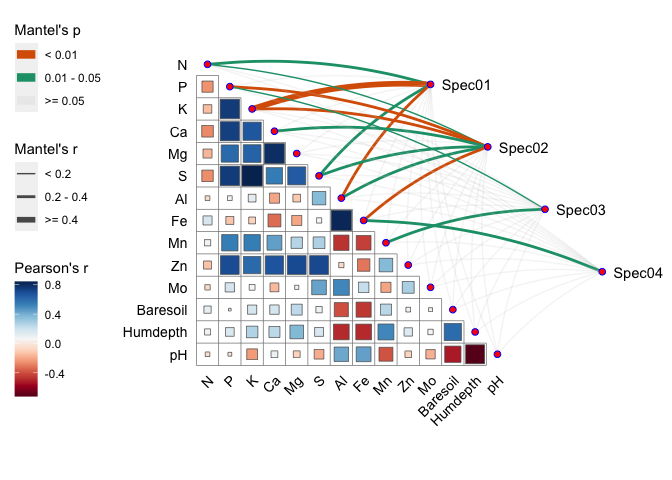
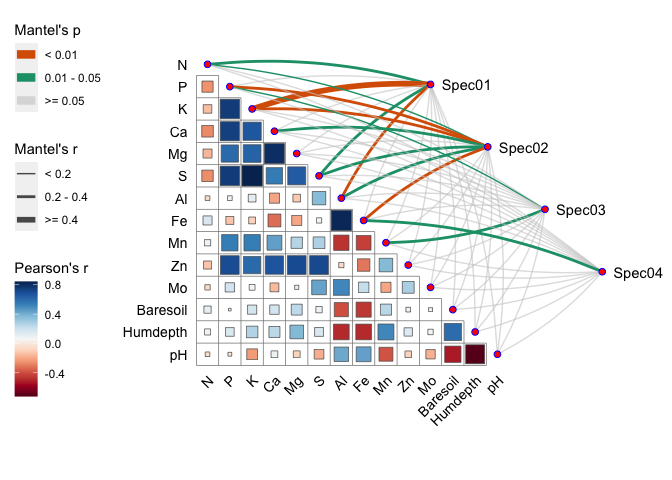
update readme

diff --git a/README.md b/README.md
@@ -154,6 +154,8 @@ correlate(varespec[1:30], varechem) %>%
 qcorrplot(varespec[1:30], type = "lower") +
   geom_square() +
   scale_fill_gradientn(colours = RColorBrewer::brewer.pal(11, "RdBu"))
+#> The input data is not a correlation matrix,
+#> you can override this behavior by setting the `is_corr` parameter.
 ```
 
 <img src="man/figures/README-heatmap-5.png" width="100%" />
@@ -187,7 +189,9 @@ mantel <- mantel_test(varespec, varechem,
 
 qcorrplot(correlate(varechem), type = "lower", diag = FALSE) +
   geom_square() +
-  geom_couple(aes(colour = pd, size = rd), data = mantel, curvature = 0.1) +
+  geom_couple(aes(colour = pd, size = rd), 
+              data = mantel, 
+              curvature = nice_curvature()) +
   scale_fill_gradientn(colours = RColorBrewer::brewer.pal(11, "RdBu")) +
   scale_size_manual(values = c(0.5, 1, 2)) +
   scale_colour_manual(values = color_pal(3)) +
